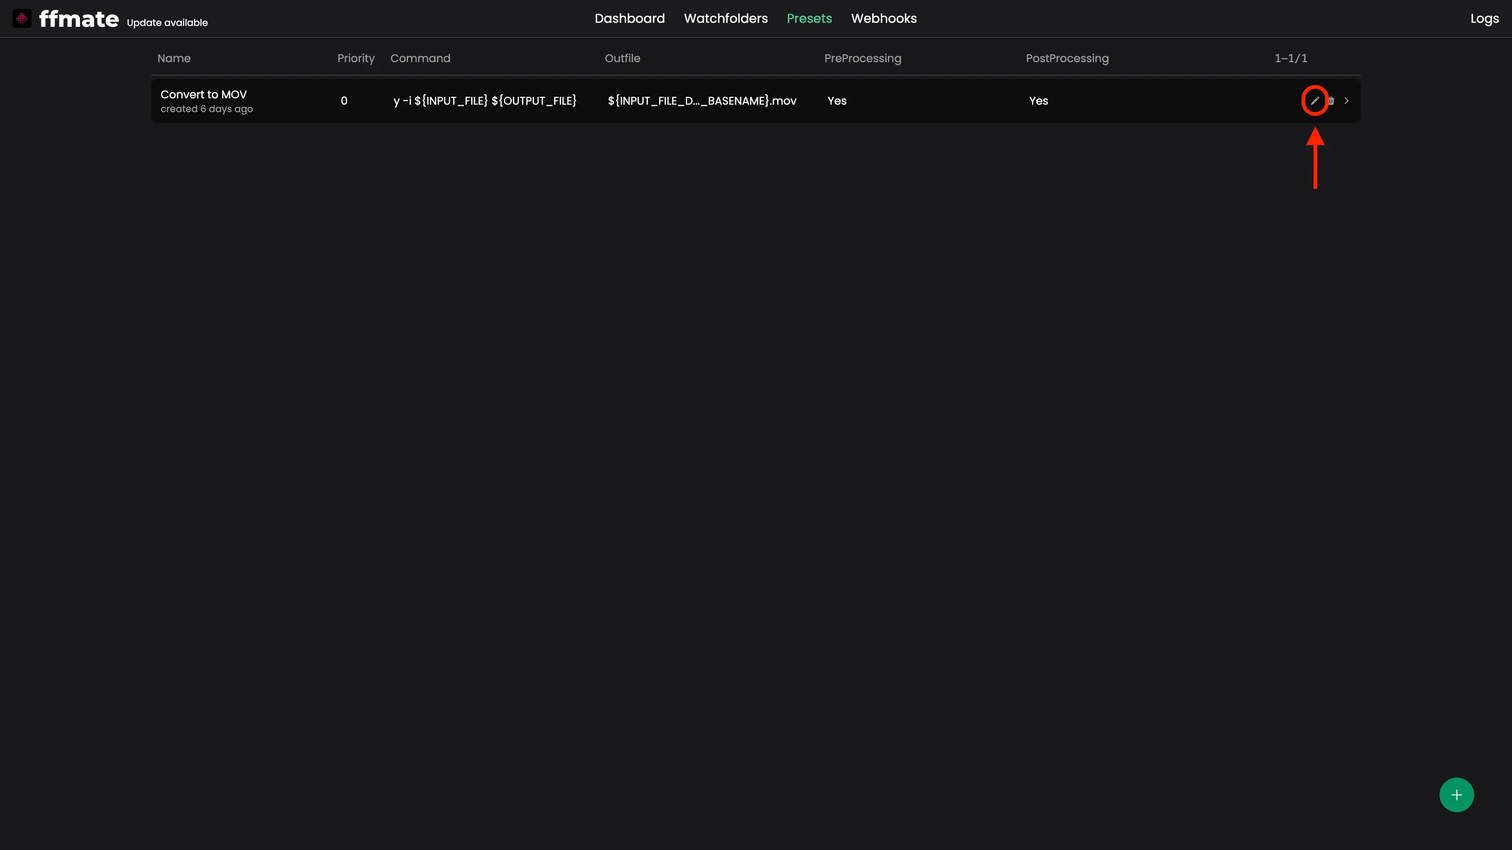
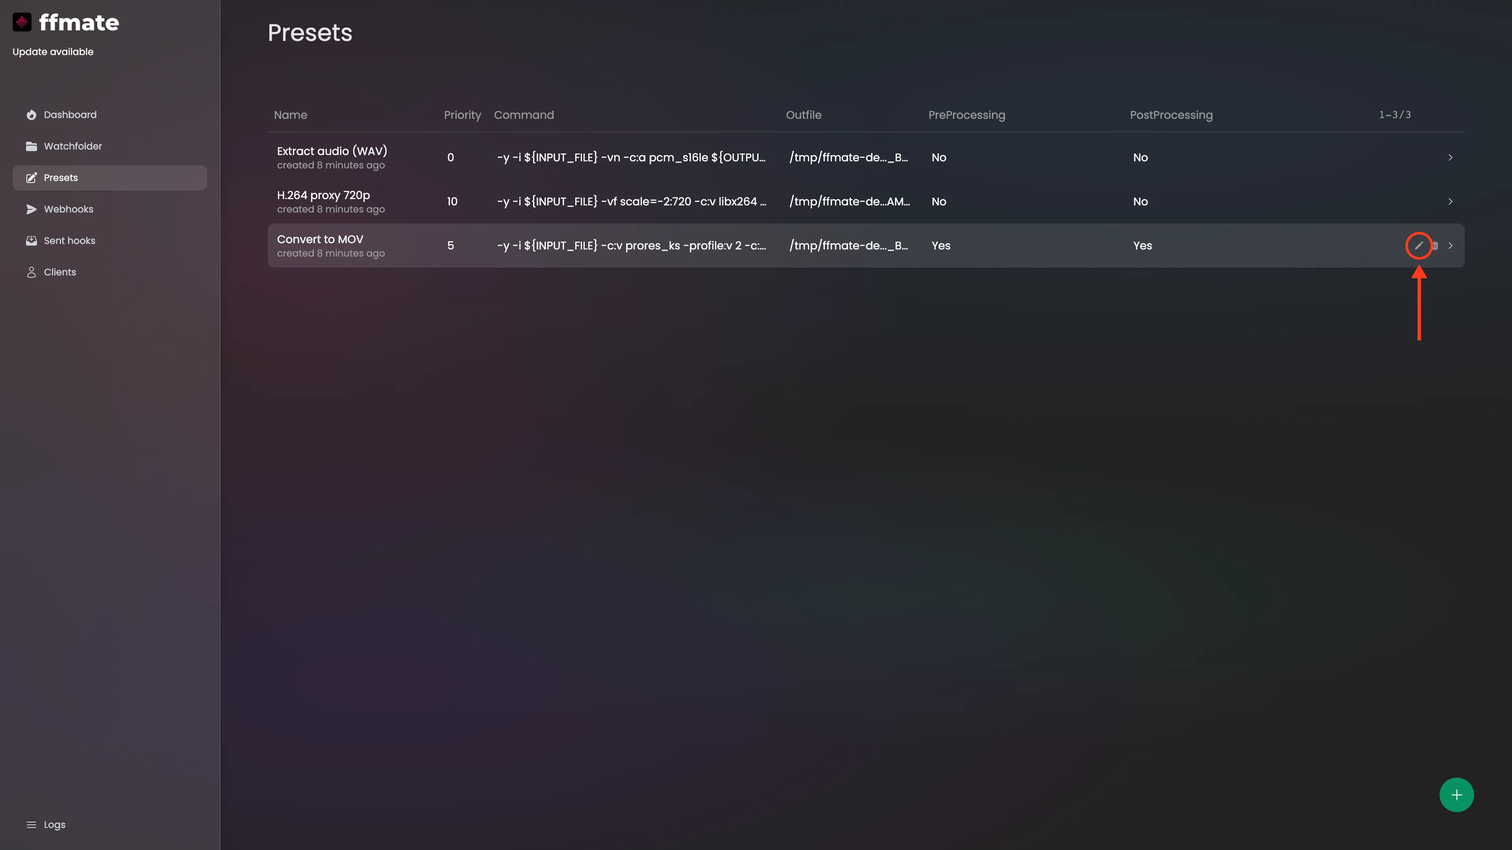
docs(web-ui): match the current Web UI and replace all screenshots
- Describe the sidebar with all seven sections, including Sent hooks and Clients
- Correct task actions, filter options, forms and the FFmpeg notice
- Replace every screenshot with the current UI and fix the alt texts
- Add screenshots for Sent hooks, Clients and the watchfolder list

diff --git a/docs/web-ui.md b/docs/web-ui.md
@@ -13,24 +13,26 @@ Whether you're a developer, media technician, or workflow specialist, the Web UI
 
 ## Navigation Overview
 
-The FFmate Web UI is divided into four main sections, each designed to simplify and streamline your media processing workflows:
+The Web UI is served at `http://localhost:3000/ui`. The sidebar on the left has these sections:
 
 1.  **`Dashboard`** – Monitor and manage all `FFmpeg` tasks in real time, including active, completed, and failed jobs.
-2.  **`Watchfolders`** – Configure folders to automatically trigger tasks when new media files are detected.
+2.  **`Watchfolder`** – Configure folders to automatically trigger tasks when new media files are detected.
 3.  **`Presets`** – Define and reuse `FFmpeg` command templates for consistent, repeatable transcoding tasks.
 4.  **`Webhooks`** – Send real-time notifications to external systems whenever events occur, such as task progress, completion, or failure.
-5.  **`Logs`** – Access live system logs, including task execution, watchfolder activity, and background processing events.
+5.  **`Sent hooks`** – See every webhook FFmate has sent, with the request and your server's response.
+6.  **`Clients`** – See all FFmate instances connected to the database and whether they're online.
+7.  **`Logs`** – Open live system logs, including task execution, watchfolder activity, and background processing events.
 
-<ZoomImg src="/img/ffmate-nav.webp" alt="FFmate Web UI displaying a persistent notification in the navigation bar warning that FFmpeg is not installed, with a link to the installation guide"/>
+<ZoomImg src="/img/ffmate-nav.webp" alt="FFmate Web UI with the sidebar on the left. Numbers 1 to 7 mark Dashboard, Watchfolder, Presets, Webhooks, Sent hooks, Clients and, at the bottom, Logs"/>
 
-FFmate includes a built-in mechanism to check whether `FFmpeg` is installed and accessible. It looks for `FFmpeg` in the system’s default `PATH` or in the custom location specified via the `--ffmpeg` flag. If `FFmpeg` is not found, the Web UI will display a persistent notification in the navigation bar. This alert includes a direct link to the [documentation](/docs/getting-started#Installing-ffmpeg) with step-by-step instructions on how to install `FFmpeg` on all supported operating systems.
+FFmate includes a built-in mechanism to check whether `FFmpeg` is installed and accessible. It looks for `FFmpeg` in the system’s default `PATH` or in the custom location specified via the `--ffmpeg` flag. If `FFmpeg` is not found, the Web UI shows a red **FFmpeg not found** notice in the sidebar, below the FFmate logo. This notice includes a direct link to the [documentation](/docs/getting-started#installing-ffmpeg) with step-by-step instructions on how to install `FFmpeg` on all supported operating systems.
 
 > [!NOTE]
 > FFmate requires **FFmpeg** to function. If **FFmpeg** is not accessible, FFmate will not be able to process any tasks.
 
-FFmate checks for the `ffmpeg` executable every 10 seconds, either on the system `PATH` or at a custom location specified with the `--ffmpeg` flag. If FFmate cannot find the executable at startup, a warning message appears in both the logs and the web interface.
+If FFmate can't find the `ffmpeg` executable at startup, a warning appears in both the logs and the Web UI. FFmate then checks again every 10 seconds, on the system `PATH` or at the location set with the `--ffmpeg` flag, and starts processing tasks as soon as it finds FFmpeg.
 
-<ZoomImg src="/img/ffmate-dashboard-ffmpeg-not-found.webp" alt="FFmate navigation bar featuring Dashboard, Watchfolders, Presets, and Logs sections, each marked with numeric indicators to guide users through the interface"/>
+<ZoomImg src="/img/ffmate-dashboard-ffmpeg-not-found.webp" alt="FFmate Web UI with an FFmpeg not found link highlighted in the sidebar, below the FFmate logo"/>
 
 ## Dashboard
 
@@ -38,47 +40,47 @@ The Dashboard provides a real-time overview of all `FFmpeg` tasks—letting you 
 
 ### Monitoring Tasks
 
-View all active and completed tasks in real time, including their status and progress.
+View all active and completed tasks in real time, including their status, progress, input file and the FFmate instance running them. Tasks submitted together as a [batch](/docs/tasks.md#submitting-multiple-tasks-as-a-batch) are grouped under one **Batch** row, and tasks created by a watchfolder have a folder icon.
 
-<ZoomImg src="/img/ffmate-dashboard-task-statuses.webp" alt="FFmate task dashboard displaying a list of media processing tasks with columns for name, priority, status, progress, input file path, and output file path. Several tasks are queued at 0%, while others are running with real-time progress bars and estimated time remaining"/>
+<ZoomImg src="/img/ffmate-dashboard-task-statuses.webp" alt="FFmate Dashboard listing tasks with name, priority, status, progress, input file and client. Running tasks show a progress bar and the time remaining, three tasks are grouped under a Batch row, and a watchfolder task has a folder icon"/>
 
 ### Filtering Task Statuses
 
 You can filter tasks by their current status to quickly focus on specific groups, such as **running**, **failed**, or **completed** jobs.
 
-To filter the list, click the **cogwheel icon** in the status column header and select a status from the dropdown menu.
+To filter the list, click the **cogwheel icon** in the status column header and select a status from the dropdown menu. Select **All** to show every task again.
 
-- **`QUEUED`** – Task is waiting to be processed.
-- **`RUNNING`** – Task is currently being executed.
-- **`DONE_SUCCESSFUL`** – Task completed without errors.
-- **`DONE_ERROR`** – Task encountered an error.
-- **`DONE_CANCELED`** – Task was manually canceled.
+- **Queued** (`QUEUED`) – Task is waiting to be processed.
+- **Running** (`RUNNING`) – Task is currently being executed.
+- **Successful** (`DONE_SUCCESSFUL`) – Task completed without errors.
+- **Error** (`DONE_ERROR`) – Task encountered an error.
+- **Canceled** (`DONE_CANCELED`) – Task was manually canceled.
 
-<ZoomImg src="/img/ffmate-dashboard-task-filter-statuses.webp" alt="FFmate dashboard displaying a single active media processing task in RUNNING state with a live progress bar at 24.04%. The interface prominently highlights the status column filter icon, signaling support for filtering tasks by state such as queued, running, done_successful, done_error, done_canceled"/>
+<ZoomImg src="/img/ffmate-dashboard-task-filter-statuses.webp" alt="FFmate Dashboard with the status filter dropdown highlighted in the Status column header"/>
 
 ### Canceling Tasks
 
-To stop a running task, hover over it to reveal the **cancel** icon on the right. Once clicked, the task will be halted immediately and marked as `DONE_CANCELED`.
+To stop a running task, hover over it to reveal the **cancel** icon on the right. Once clicked, the task will be halted immediately and marked as `DONE_CANCELED`. The icon only appears while the task is `RUNNING`.
 
-<ZoomImg src="/img/ffmate-dashboard-cancel-task.webp" alt="FFmate dashboard showing multiple media processing tasks with progress indicators. One task is actively running at 54.76% completion. The interface highlights a circular cancel button on the right side of the row, indicating the ability to terminate individual tasks directly from the dashboard"/>
+<ZoomImg src="/img/ffmate-dashboard-cancel-task.webp" alt="FFmate Dashboard with the cancel icon highlighted on the right of a running task"/>
 
 ### Restarting Tasks
 
-To re-run a completed or failed task, hover over it and click the **restart** icon. The task will be resubmitted with the same configuration and added back to the queue.
+To re-run a finished task (successful, failed or canceled), hover over it and click the **restart** icon. The task will be resubmitted with the same configuration and added back to the queue.
 
-<ZoomImg src="/img/ffmate-dashboard-task-restart.webp" alt="FFmate dashboard displaying a completed media processing task with a status of DONE_SUCCESSFUL and a progress bar showing 100%. The interface highlights a circular restart icon on the right side of the task row, indicating the option to rerun or reprocess completed tasks directly from the dashboard"/>
+<ZoomImg src="/img/ffmate-dashboard-task-restart.webp" alt="FFmate Dashboard with the restart icon highlighted on the right of a finished task"/>
 
 ### Deleting Tasks
 
-To remove a task from the list, hover over it and click the **delete** icon. Deleting a task will permanently remove both the task and its logs from the database.
+To remove a task, hover over it and click the **delete** icon. The icon appears for queued and finished tasks. Cancel a running task first to delete it.
 
-<ZoomImg src="/img/ffmate-dashboard-task-delete.webp" alt="FFmate dashboard displaying a successfully completed media processing task marked as DONE_SUCCESSFUL with a 100% progress bar. The interface highlights the trash bin icon on the right side of the row, indicating the option to delete completed tasks directly from the dashboard UI"/>
+<ZoomImg src="/img/ffmate-dashboard-task-delete.webp" alt="FFmate Dashboard with the delete icon highlighted on the right of a finished task"/>
 
 ### Task Details
 
-Click on any task to see its full execution details, including progress, `FFmpeg` command, input/output paths, and pre/post-processing information.
+Click on any task to see its full execution details, including progress, errors, `FFmpeg` command, input/output paths, pre/post-processing information, webhooks and the FFmate instance that ran it. <Badge type="tip" text="v2.0.19+" /> The details also show the task's labels and how many retries have run.
 
-<ZoomImg src="/img/ffmate-dashboard-task-details.webp" alt="FFmate task details view displaying real-time information for an active media processing job. The interface shows UUID, priority, status, and progress bar at 64.82%, along with resolved FFmpeg command, input and output file paths, and pre/post-processing sidecar file locations using dynamic DATE_YEAR placeholders"/>
+<ZoomImg src="/img/ffmate-dashboard-task-details.webp" alt="FFmate task details opened below a finished task, showing UUID, priority, status, progress, the command, input and output files with their resolved values, pre- and post-processing scripts and sidecar paths, and the client that ran the task"/>
 
 ## Watchfolders
 
@@ -88,35 +90,35 @@ Watchfolders let you automate task creation by continuously monitoring specific 
 
 Click the **plus (+) button** in the bottom-right corner of the Watchfolders page to create a new watchfolder.
 
-<ZoomImg src="/img/ffmate-watchfolder-add-new.webp" alt="FFmate watchfolder interface with an empty state and a green circular plus button highlighted in the bottom-right corner, indicating the ability to add a new watchfolder for automated media ingestion and processing"/>
+<ZoomImg src="/img/ffmate-watchfolder-add-new.webp" alt="Empty FFmate Watchfolder page with the plus button highlighted in the bottom-right corner"/>
 
-Specify the folder path, preset, scan interval, growth check duration, and optional file extension filters.
+Specify the name, folder path, preset, scan interval, number of growth checks, and optional file extension filters. Turn off **Enabled** to create the watchfolder in a suspended state. <Badge type="tip" text="v2.0.19+" /> You can also add labels.
 
-<ZoomImg src="/img/ffmate-watchfolder-add-new-form-input.webp" alt="FFmate interface displaying the 'New Watchfolder' form, allowing users to configure automated task creation by specifying folder path, preset, scan interval, growth check duration, and optional file extension filters. Form includes fields for name, description, and a Create button to finalize the setup"/>
+<ZoomImg src="/img/ffmate-watchfolder-add-new-form-input.webp" alt="FFmate New watchfolder form filled in with name, description, path, preset, interval, growth check, include and exclude extensions, and the Enabled switch turned on"/>
 
 ### Checking Configured Watchfolders
 
 The watchfolder list displays all configured watchfolders along with their current status, assigned preset, and monitored folder path.
 
-<ZoomImg src="/img/ffmate-watchfolder-list.webp" alt="FFmate watchfolder overview displaying a single configured watchfolder with status OK, a 5-second scan interval, active file filtering, and an assigned preset named 'rotate'. The interface shows the folder path, last check timestamp, and a green plus button for adding additional watchfolders"/>
+<ZoomImg src="/img/ffmate-watchfolder-list.webp" alt="FFmate Watchfolder page listing two watchfolders with status OK, interval, path, preset, filter and last check"/>
 
 ### Checking Watchfolder Details
 
 Click on any watchfolder to view its full configuration, including assigned preset, filter rules, scan settings, and monitored folder path.
 
-<ZoomImg src="/img/ffmate-watchfolder-details.webp" alt="FFmate interface showing expanded details of a configured watchfolder, including UUID, status, last check timestamp, assigned preset, scan interval, growth check value, folder path, and file extension filters. The watchfolder is active with status OK and filters configured to include .mp4 and exclude .xml files"/>
+<ZoomImg src="/img/ffmate-watchfolder-details.webp" alt="FFmate watchfolder details opened below a watchfolder, showing UUID, status, last check, preset, interval, growth check, path and the include and exclude filters"/>
 
 ### Updating a Watchfolder
 
 Hover over a watchfolder in Watchfolders, click the **pencil** icon, adjust any field in the Edit Watchfolder form (path, preset, scan interval, growth check, filters), then click Save. The watchfolder will restart with the new configuration shortly after the update.
 
-<ZoomImg src="/img/ffmate-watchfolder-edit-watchfolder.webp" alt="FFmate Watchfolders list showing a single configured watchfolder named “My first watchfolder” (created 6 days ago) with status OK, a 5 sec scan interval (3 checks), monitored path “/Users/r.gala/.../cameracard”, filters enabled, and last check “just now”; the edit (pencil) icon is highlighted to indicate updating the watchfolder"/>
+<ZoomImg src="/img/ffmate-watchfolder-edit-watchfolder.webp" alt="FFmate Watchfolder page with the pencil icon highlighted on the right of a watchfolder"/>
 
 ### Deleting Watchfolders
 
-Hover over a preset in Presets, click the **delete** icon next to a watchfolder to remove it. FFmate will immediately stop monitoring the associated folder.
+Hover over a watchfolder in Watchfolder and click the **delete** icon to remove it. FFmate will stop monitoring the associated folder.
 
-<ZoomImg src="/img/ffmate-watchfolder-delete-watchfolder.webp" alt="FFmate watchfolder management interface showing a configured watchfolder with status OK and an active delete icon highlighted on the right side of the row, indicating the option to remove the watchfolder from the system. The UI includes path, scan interval, preset, and last check timestamp"/>
+<ZoomImg src="/img/ffmate-watchfolder-delete-watchfolder.webp" alt="FFmate Watchfolder page with the delete icon highlighted on the right of a watchfolder"/>
 
 ## Presets
 
@@ -126,35 +128,37 @@ Presets in FFmate are reusable templates that simplify task creation by letting 
 
 Click the **plus (+) button** in the bottom-right corner of the Presets page to create a new Preset.
 
-<ZoomImg src="/img/ffmate-presets-add-new.webp" alt="FFmate presets interface displaying an empty state with a green circular plus button highlighted in the bottom-right corner, indicating the option to create a new encoding preset for automated media processing workflow"/>
+<ZoomImg src="/img/ffmate-presets-add-new.webp" alt="Empty FFmate Presets page with the plus button highlighted in the bottom-right corner"/>
 
-You can create your own custom preset or choose from a set of predefined, ready-to-use presets provided by the FFmate team.
+You can create your own custom preset or choose from a set of predefined, ready-to-use presets provided by the FFmate team. The list of ready-to-use presets is loaded from the internet, so it's empty without an internet connection.
 
-<ZoomImg src="/img/ffmate-presets-add-new-form-input.webp" alt="FFmate preset creation interface displaying a form for defining a new encoding preset, with fields for name, description, FFmpeg command, output file, priority, and optional pre/post-processing script and sidecar paths. The left panel lists global presets like frame rate conversion, format changes, and audio extraction"/>
+The form covers the name, description, `FFmpeg` command, output file, priority, and pre- and post-processing settings, including **Import sidecar**. <Badge type="tip" text="v2.0.19+" /> It also has fields for retries and labels.
+
+<ZoomImg src="/img/ffmate-presets-add-new-form-input.webp" alt="FFmate New preset form filled in with name, description, command, output file, priority and a post-processing script. The global presets to start from are listed on the left"/>
 
 ### List of Active Presets
 
 View all configured presets along with their name, description, priority, and output file pattern.
 
-<ZoomImg src="/img/ffmate-presets-list.webp" alt="FFmate presets interface displaying a custom encoding preset titled 'Convert to MOV', with a priority of 0, defined FFmpeg command using input/output placeholders, dynamic output filename, and active pre- and post-processing scripts. The UI includes a green plus button to add additional presets"/>
+<ZoomImg src="/img/ffmate-presets-list.webp" alt="FFmate Presets page listing three presets with priority, command, output file and whether pre- and post-processing are set"/>
 
 ### Checking Preset Details
 
 Click on any preset to view its full configuration, including the `FFmpeg` command, output pattern, priority, and any pre/post-processing settings.
 
-<ZoomImg src="/img/ffmate-presets-details.webp" alt="FFmate interface showing expanded details of a configured watchfolder, including UUID, status, last check timestamp, assigned preset, scan interval, growth check value, folder path, and file extension filters. The watchfolder is active with status OK and filters configured to include .mp4 and exclude .xml files"/>
+<ZoomImg src="/img/ffmate-presets-details.webp" alt="FFmate preset details opened below a preset, showing UUID, priority, command, output file and the pre- and post-processing settings"/>
 
 ### Updating a Preset
 
 Hover over a preset in Presets, click the **pencil** icon, modify any fields in the Edit Preset form (name, `FFmpeg` command, output pattern, priority, scripts), then click Save.
 
-<ZoomImg src="/img/ffmate-presets-edit-preset.webp" alt="FFmate Presets list showing a single configured preset named “Convert to MOV” (created 6 days ago) with priority 0, FFmpeg command -y -i ${INPUT_FILE} ${OUTPUT_FILE}, output pattern ${INPUT_FILE_D..._BASENAME}.mov, pre- and post-processing enabled; the edit (pencil) icon is highlighted to indicate updating the preset"/>
+<ZoomImg src="/img/ffmate-presets-edit-preset.webp" alt="FFmate Presets page with the pencil icon highlighted on the right of a preset"/>
 
 ### Removing a Preset
 
-Hover over a preset in Presets, Click the **delete** icon next to a preset to remove it.
+Hover over a preset in Presets and click the **delete** icon to remove it.
 
-<ZoomImg src="/img/ffmate-presets-delete-preset.webp" alt="FFmate interface showing expanded details of a configured watchfolder, including UUID, status, last check timestamp, assigned preset, scan interval, growth check value, folder path, and file extension filters. The watchfolder is active with status OK and filters configured to include .mp4 and exclude .xml files"/>
+<ZoomImg src="/img/ffmate-presets-delete-preset.webp" alt="FFmate Presets page with the delete icon highlighted on the right of a preset"/>
 
 ## Webhooks
 
@@ -164,37 +168,51 @@ Webhooks let you integrate FFmate with other systems by sending real-time event 
 
 Click the **plus (+) button** in the bottom-right corner of the Webhooks page to create a new webhook.
 
-<ZoomImg src="/img/ffmate-webhook-add-new.webp" alt="FFmate webhook interface with an empty state and a green circular plus button highlighted in the bottom-right corner, indicating the ability to add a new webhook for real-time event notifications"/>
+<ZoomImg src="/img/ffmate-webhook-add-new.webp" alt="Empty FFmate Webhooks page with the plus button highlighted in the bottom-right corner"/>
 
 Specify the **event** you want to subscribe to and the target **URL** where notifications should be delivered.
 
-<ZoomImg src="/img/ffmate-webhook-add-new-form-input.webp" alt="FFmate interface displaying the 'New Webhook' form, allowing users to configure automated event notifications by specifying the target URL, subscribed events,and a Create button to finalize the configuration"/>
+<ZoomImg src="/img/ffmate-webhook-add-new-form-input.webp" alt="FFmate New webhook form with the task.updated event selected and a webhook URL entered"/>
 
 ### Checking Configured Webhooks
 
-The Webhooks list displays all configured webhooks with their subscribed event and target URL.
+The Webhooks list displays all configured webhooks with their subscribed event, target URL, and when they were last changed.
 
-<ZoomImg src="/img/ffmate-webhook-list.webp" alt="FFmate webhook overview displaying a single configured webhook with subscribed to task created and pointing to a specified target URL. The interface shows the last notification timestamp, and a green plus button for adding additional webhooks"/>
+<ZoomImg src="/img/ffmate-webhook-list.webp" alt="FFmate Webhooks page listing three webhooks with their event, URL and when they were last modified"/>
 
 
 ### Updating a Webhook
 
 Hover over a webhook in the list, click the **pencil** icon, adjust any field in the Edit Webhook form (event, url), then click Save. Changes take effect immediately, and new events will be delivered according to the updated configuration.
 
-<ZoomImg src="/img/ffmate-webhook-edit-webhook.webp" alt="FFmate Webhooks list showing a single configured webhook with subscribed event, and URL; the edit (pencil) icon is highlighted on the right side of the row, indicating the option to update the webhook configuration"/>
+<ZoomImg src="/img/ffmate-webhook-edit-webhook.webp" alt="FFmate Webhooks page with the pencil icon highlighted on the right of a webhook"/>
 
 ### Deleting Webhooks
 
 Hover over a webhook in the list and click the **delete** icon to remove it. FFmate will immediately stop sending notifications to that URL.
 
-<ZoomImg src="/img/ffmate-webhook-delete-webhook.webp" alt="FFmate Webhooks list showing a single configured webhook with subscribed event, and URL; the delete icon highlighted on the right side of the row, indicating the option to remove the webhook from the system"/>
+<ZoomImg src="/img/ffmate-webhook-delete-webhook.webp" alt="FFmate Webhooks page with the delete icon highlighted on the right of a webhook"/>
+
+## Sent Hooks
+
+The **Sent hooks** page lists every webhook FFmate has sent, newest first, with the HTTP status your server returned, the event, the URL and the time. Click an entry to see the full request and response. For details, see [Webhook logs](/docs/webhooks.md#webhook-logs).
+
+<ZoomImg src="/img/ffmate-sent-hooks.webp" alt="FFmate Sent webhooks page listing sent webhooks with method, HTTP status, event, URL and time. One entry is opened and shows its status and request"/>
+
+## Clients
+
+The **Clients** page lists every FFmate instance connected to the database, with its identifier, version, whether it's online, and when it was last seen. An FFmate instance counts as online if it has sent a heartbeat in the last 60 seconds. The FFmate instance the Web UI is connected to is listed first.
+
+<ZoomImg src="/img/ffmate-clients.webp" alt="FFmate Clients page listing one FFmate instance with its identifier, version, operating system, architecture, online dot and last seen time"/>
+
+<Badge type="tip" text="v2.0.19+" /> Click an FFmate instance to see its details: FFmpeg path, operating system, architecture and labels.
 
 ## Accessing Real-Time Logs
 
-Click the **Logs** icon in the top-right navigation bar to open a real-time log window at the bottom of the screen.
+Click **Logs** at the bottom of the sidebar to open a real-time log window at the bottom of the screen. Click it again to close the window, or click **Clear all entries** to empty it.
 
-<ZoomImg src="/img/ffmate-logs.webp" alt="FFmate dashboard interface showing a completed media processing task with a highlighted 'Logs' button in the top-right corner, indicating access to detailed execution logs for monitoring and debugging purposes. Task status is marked as DONE_SUCCESSFUL with a 100% progress bar and defined input/output paths"/>
+<ZoomImg src="/img/ffmate-logs.webp" alt="FFmate Dashboard with Logs highlighted at the bottom of the sidebar"/>
 
-This view shows live FFmate activity, including task execution, watchfolder events, and system messages.
+This view shows live FFmate activity, including task execution, watchfolder events, and system messages. In a [cluster](/docs/clustering.md), it only shows the logs of the FFmate instance the Web UI is connected to.
 
-<ZoomImg src="/img/ffmate-logs-details.webp" alt="FFmate dashboard displaying an empty task list with the logs panel expanded, showing system-level logs related to preset and watchfolder creation, deletion, and directory scan errors. Entries include UUID references, timestamps, and repeated errors indicating missing directories during watchfolder polling"/>
+<ZoomImg src="/img/ffmate-logs-details.webp" alt="FFmate Dashboard with the log window open at the bottom of the screen, showing timestamped entries for a created preset, created tasks and watchfolder activity"/>
